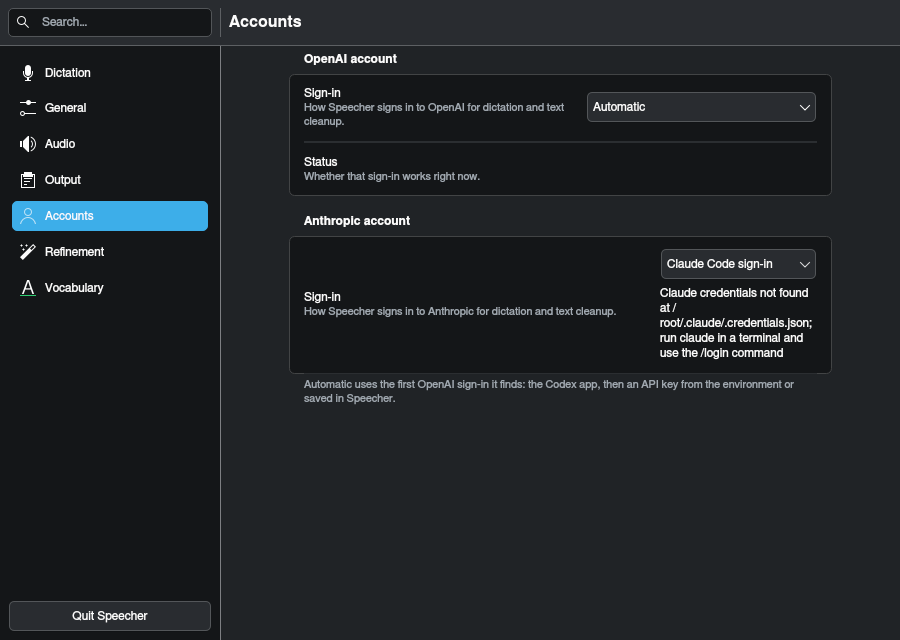
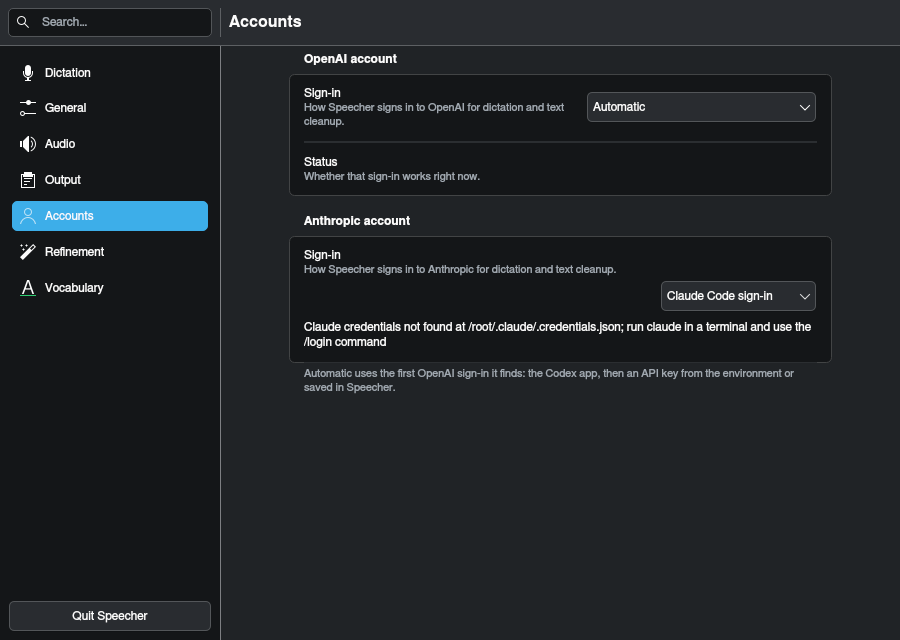
Give the Anthropic sign-in status the full row width
The status sat in the Accounts row's control column, wrapping into a
five-line sliver under the combo while the row title floated centred
beside it. The row now takes makeRow's full-width shape (an Expanding
control): title and description across the card, the combo at its
native size on the right, and the status wrapping over the whole row.

Switching to CLI Proxy API mode hides the status; announcing the
changed size hint and dropping the row frame's pinned minimum height
fixes a pre-existing bug where the row kept two blank lines of height.

Verified against headless kwin Breeze renders in light and dark, at
900x640 and 760x520, in both sign-in modes; before/after images for
the CLI Proxy API mode are added alongside the refreshed auth pair.

Changed region(s): [[0.3111, 0.375, 0.9022, 0.625]]

diff --git a/src/frontend/qt/ProviderCustomRows.cpp b/src/frontend/qt/ProviderCustomRows.cpp
@@ -142,9 +142,15 @@ SchemaCustomRow ProviderCustomRows::makeAnthropicAuthModeRow(QWidget *parent,
                                                              std::function<void()> notifyChanged)
 {
     auto *container = new QWidget(parent);
+    // The status can run to a sentence with a path in it, far too wide for a
+    // row's control column. Expanding hands the row makeRow's full-width
+    // shape: title and description across the card, then this container, with
+    // the combo at its native size on the right and the status wrapping over
+    // the whole row instead of a sliver under the combo.
+    container->setSizePolicy(QSizePolicy::Expanding, QSizePolicy::Preferred);
     auto *layout = new QVBoxLayout(container);
     layout->setContentsMargins(0, 0, 0, 0);
-    layout->setSpacing(6);
+    layout->setSpacing(settings::relatedSpacing());
 
     m_anthropicAuthMode = new QComboBox(container);
     m_anthropicAuthMode->addItem(QStringLiteral("Claude Code sign-in"), QStringLiteral("oauth"));
@@ -157,11 +163,8 @@ SchemaCustomRow ProviderCustomRows::makeAnthropicAuthModeRow(QWidget *parent,
     m_anthropicAuthStatus->setForegroundRole(QPalette::WindowText);
     m_anthropicAuthStatus->setAttribute(Qt::WA_StyledBackground, false);
     m_anthropicAuthStatus->setAutoFillBackground(false);
-    // Wraps under the combo instead of widening the control column and
-    // squeezing the row title.
     m_anthropicAuthStatus->setWordWrap(true);
-    m_anthropicAuthStatus->setSizePolicy(QSizePolicy::Ignored, QSizePolicy::Preferred);
-    layout->addWidget(m_anthropicAuthMode);
+    layout->addWidget(m_anthropicAuthMode, 0, Qt::AlignRight);
     layout->addWidget(m_anthropicAuthStatus);
 
     QObject::connect(m_anthropicAuthMode,
@@ -459,6 +462,19 @@ void ProviderCustomRows::updateAnthropicAuthControl()
                            : credentials.error);
     }
     m_anthropicAuthStatus->setVisible(!cliproxy);
+    // Announce the changed hint, or the row's layout keeps the container's
+    // cached size and holds the old height.
+    QWidget *container = m_anthropicAuthStatus->parentWidget();
+    if (container) {
+        container->updateGeometry();
+    }
+    // The row frame pins its minimum height on resize; drop the stale pin so
+    // the next layout pass re-measures at the new content height.
+    if (QWidget *rowFrame = container ? container->parentWidget() : nullptr) {
+        if (rowFrame->objectName() == QLatin1String("settingsRow")) {
+            rowFrame->setMinimumHeight(0);
+        }
+    }
 }
 
 } // namespace speecher
